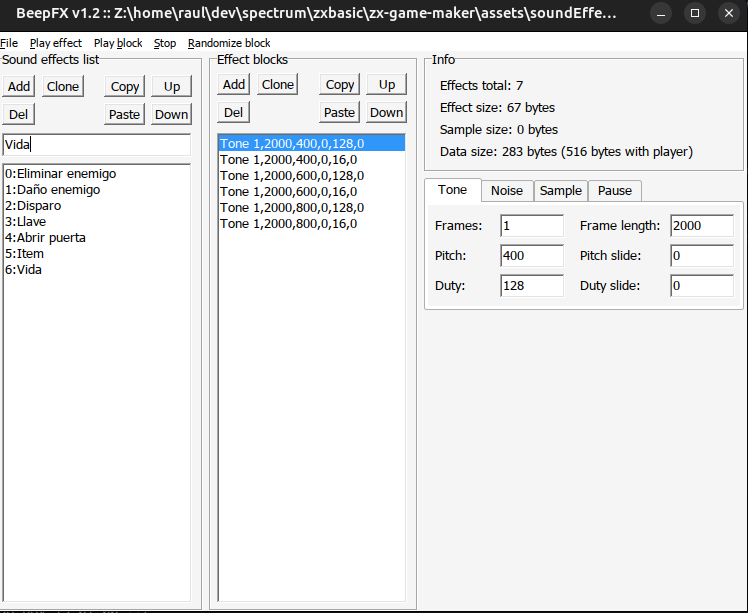
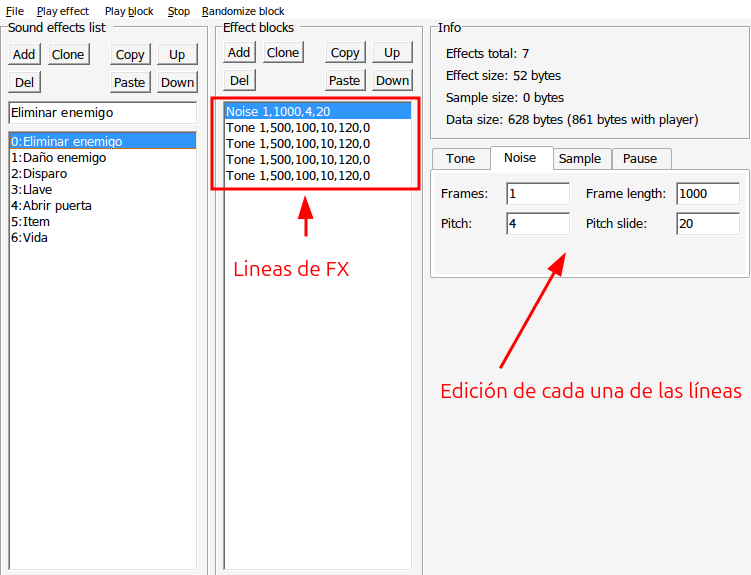
added new player documentation

Changed region(s): [[0.0, 0.0, 1.0, 1.0], [0.5842, 0.6209, 1.0, 0.7096], [0.6765, 0.5322, 0.7072, 0.6209]]

diff --git a/pages/mydoc/mydoc_sound_fx.md b/pages/mydoc/mydoc_sound_fx.md
@@ -20,9 +20,35 @@ ZX Game Maker necesita que definas 7 sonidos. Se reproducirán cuando en el jueg
 * **Item**. Cuando el personaje recoge un item.
 * **Vida**. Cuando el personaje recoge un elemento que le recupera vida.
 
+# Editar los sonidos
+
+En general siempre es recomendable hacer los sonidos cortos por que se ejecutan con el beeper y usan la CPU y en consecuencia se para el juego mientras se estan ejecutando, pero con el nuevo player de beeper hemos podido mitigar ese problema ya que este ejecuta una de las lineas del sonido y devuelve el control a la CPU.
+
+Para que el nuevo reproductor de player pueda notarse más y que el juego se pare menos intenta hacer que cada una de las líneas que definen el sonido tengan una duración (Frames x Frame lenght) sea corto, si puede ser que no pase de 1000 incluso 500 es un buen valor.
+
+![](images/beeper_duracion_linea.png)
+
+Recuerda también que para usar ese nuevo player lo tienes que activar en [la sección de configuración](/mydoc_tiled_general_configuration.html), exactamente es la opción **newBeeperPlayer**.
+
+También recomiendo ir escuchando el sonido en el juego ya que al hacer este truqui, sonidos que os pareceran muy cortos en el BeepFX, en el juego realmente se escuchan bien.
+
 ![](images/beepfx.png)
 
 # Exportar para ZX Game Maker
+
+## Reproductor nuevo (@JuanAntonio1072)
+
+Para exportar tus efectos de sonido para el ZX Spectrum Game Maker, sólo tendrás que ir al menu File > Compile.
+* Seleccionar **Assembly**
+* En **Code address** da igual la dirección que haya, no hace falta que lo toques.
+* Deseleccionar **Include player code**
+* Deseleccionar **Include basic test**
+* Pulsar **Compile**
+* Guardar el archivo en tu carpeta **assets/fx** con el nombre **fx.asm**
+
+![](images/beepfx_compile_new.png)
+
+## Reproductor "antiguo" (Shiru8bit)
 
 Para exportar tus efectos de sonido para el ZX Spectrum Game Maker, sólo tendrás que ir al menu File > Compile.
 * Seleccionar **Tap image**

diff --git a/pages/mydoc/mydoc_tiled_general_configuration.md b/pages/mydoc/mydoc_tiled_general_configuration.md
@@ -39,6 +39,7 @@ Propiedades personalizadas:
 * **lifeAmount**. Cantidad de vida que incrementa al personaje los items **life**.
 * **maxEnemiesPerScreen**. Se puede configurar la cantidad de enemigos que aparecen en pantalla (hasta 5). Evitar poner más de los que se usan para optimizar espacio.
 * **musicEnabled**. Para habilitar o deshabilitar la música AY. Si se habilita la música el juego resultante sólo funcionará en 128K, para hacer una versión 48K tendrás que desmarcar guardar y volver a compilar.
+* **newBeeperPlayer**. Para utilizar en nuevo reproductor de beeper mejorado para que el juego se pare mucho menos mientras suena debes activar esta opción. IMPORTANTE: Si quieres aprovechar las bondades de este nuevo player debes hacer los sonidos como se indica en [la sección de FX del manual](/mydoc_sound_fx.html).
 * **paper**. Color del papel in game. Muy útil cuando se cambia el color de fondo del juego y del hud.
 * **password**. Password que se pedirá al iniciar el juego para poder jugar. Útil para juegos con más de una carga con sistema de passwords. El password debe ser de 8 caracteres y puede ser alfanumérico, pero no utilices carácteres no ingleses como ñ, acentos...
 * **shooting**. Con esto habilitamos o deshabilitamos el disparo del personaje.
